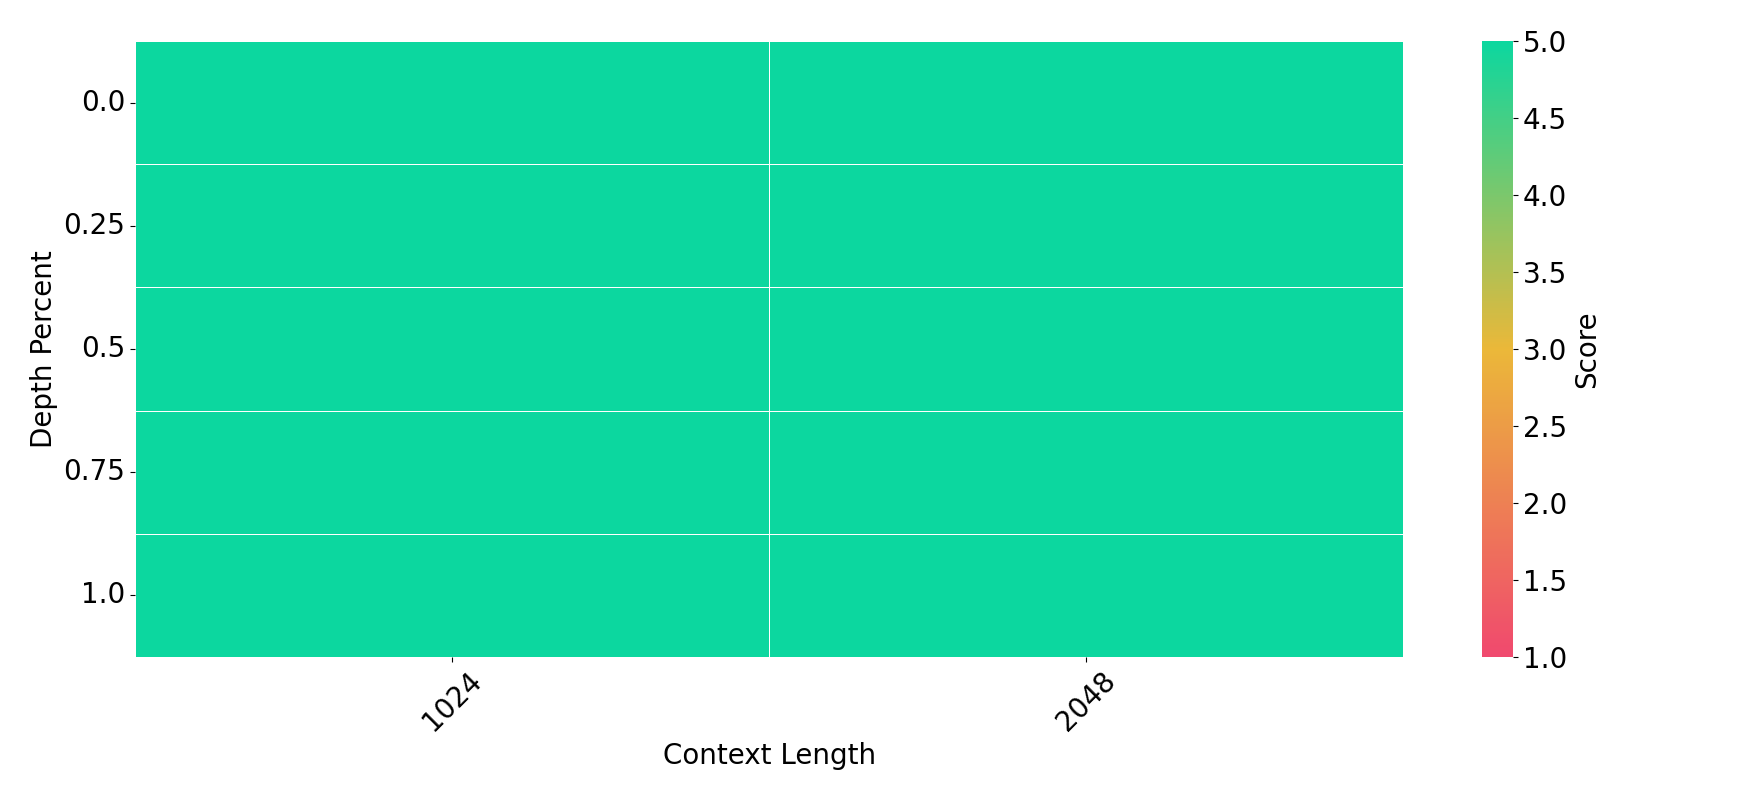
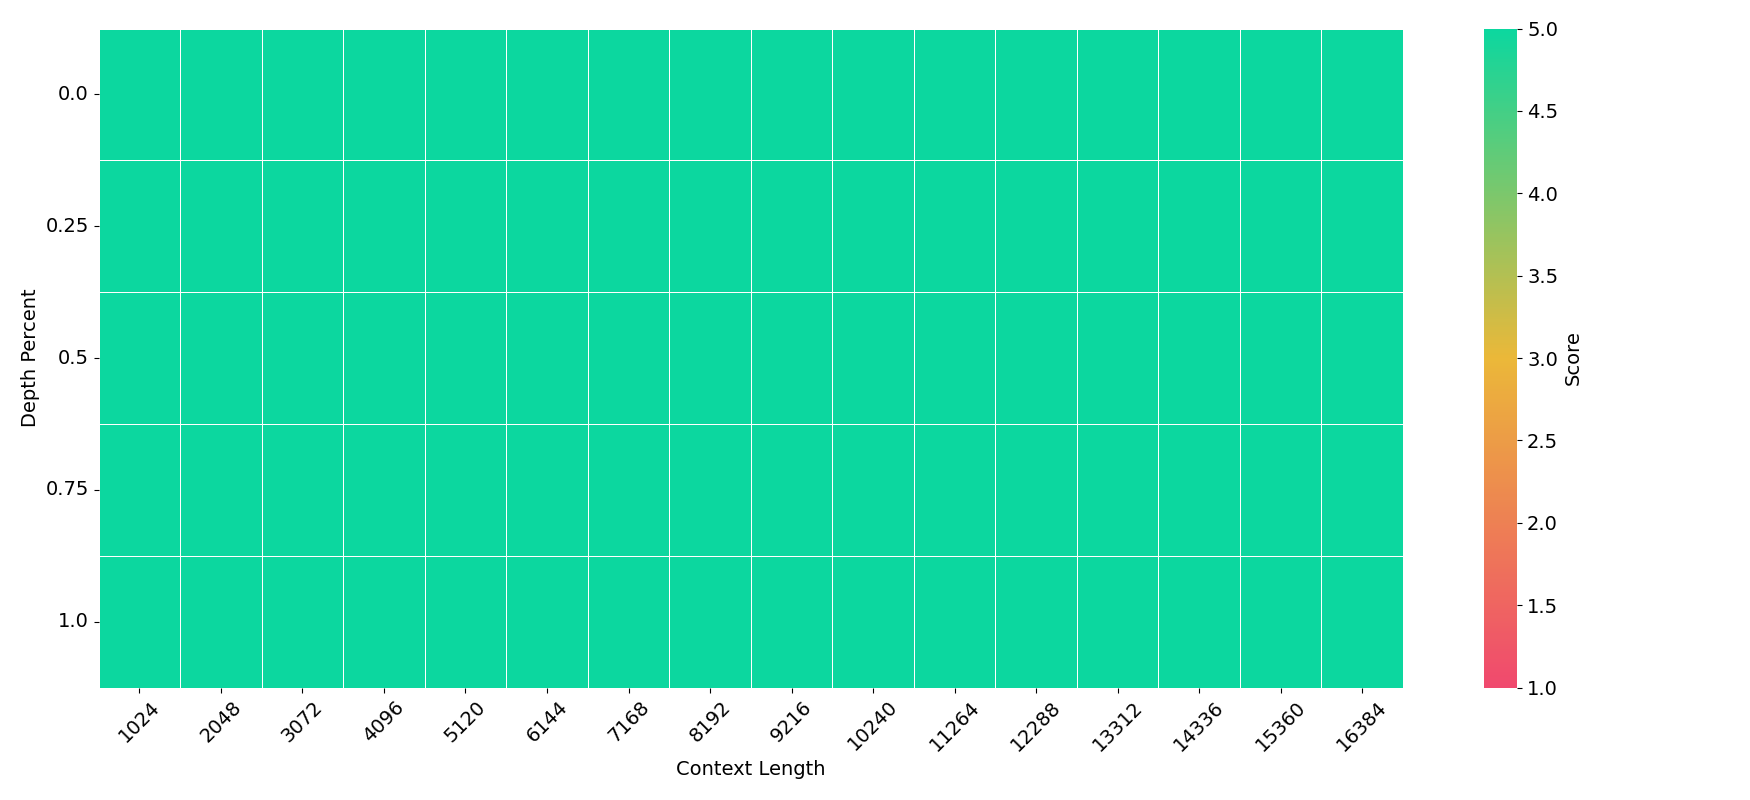
Fix instruction prompt

diff --git a/src/hari/evaluate.py b/src/hari/evaluate.py
@@ -22,28 +22,10 @@ class Result:
 def parse_args():
     parser = ArgumentParser()
     parser.add_argument(
-        "--context_length_max",
-        type=int,
-        default=2048,
-        help="Maximum context length for the haystack",
-    )
-    parser.add_argument(
-        "--context_length_min",
-        type=int,
-        default=1024,
-        help="Minimum context length for the haystack",
-    )
-    parser.add_argument(
-        "--interval",
-        type=int,
-        default=256,
-        help="Interval for the context length",
-    )
-    parser.add_argument(
-        "--depth",
+        "--depth_steps",
         type=int,
         default=5,
-        help="Depth for the haystack",
+        help="Number of depth steps when inserting the needle into the document",
     )
     parser.add_argument(
         "--needle",
@@ -69,11 +51,6 @@ def parse_args():
         help="Model to use for the retrieval",
     )
     parser.add_argument(
-        "--model_type",
-        type=str,
-        default="gpt4o",
-    )
-    parser.add_argument(
         "--judger_model",
         type=str,
         default="gpt-4o-2024-11-20",
@@ -86,6 +63,24 @@ def parse_args():
         default="result",
         help="Output directory for the results",
     )
+    parser.add_argument(
+        "--min_context_length",
+        type=int,
+        default=1024,
+        help="Minimum context length for the haystack",
+    )
+    parser.add_argument(
+        "--max_context_length",
+        type=int,
+        default=16384,
+        help="Maximum context length for the haystack",
+    )
+    parser.add_argument(
+        "--interval",
+        type=int,
+        default=1024,
+        help="Interval for the context length",
+    )
     return parser.parse_args()
 
 
@@ -97,20 +92,26 @@ if __name__ == "__main__":
     ds = load_dataset("wikimedia/wikipedia", "20231101.ja", split="train").shuffle(
         seed=42
     )
+    lengths = list(
+        range(
+            args.min_context_length,
+            args.max_context_length + 1,
+            args.interval,
+        )
+    )
     # Prepare haystacks across lengths and positions
     all_haystacks = prepare_haystacks_across_lengths_and_positions(
-        ds, args.needle, lengths=[1024, 2048], depth=args.depth
+        ds, args.needle, lengths=lengths, depth_steps=args.depth_steps
     )
     model = None
-    if args.model_type == "vLLM":
-        from hari.model.vLLM import VLLM
-
-        model = VLLM(args.model)
-    elif args.model_type == "gpt4o":
+    if args.model.startswith("gpt-4o"):
         from hari.model.gpt4o import GPT4o
 
         model = GPT4o(args.model)
+    else:
+        from hari.model.vLLM import VLLM
 
+        model = VLLM(args.model)
     judger = Judger(args.judger_model)
 
     # Generate 2D accuracy matrix

diff --git a/src/hari/model/gpt4o.py b/src/hari/model/gpt4o.py
@@ -18,12 +18,20 @@ class GPT4o(Model):
             messages=[
                 {
                     "role": "system",
-                    "content": "You are a helpful AI bot that answers questions for a user. Keep your response short and direct",
+                    "content": "You are a helpful AI assistant that can retrieve information from a document.",
                 },
-                {"role": "user", "content": f"Below is a document: {haystack}"},
                 {
                     "role": "user",
-                    "content": f"{retrieval_question} Don't give information outside the document or repeat your findings",
+                    "content": f"""You will be given a long document of text. Within the document, there is a single sentence that is needed to answer the question at the end.
+            Read the entire document carefully, then answer the question as accurately as possible. Please do not include any additional information or context outside of the passage.
+
+            Document:
+            { haystack }
+
+            Question:
+            { retrieval_question }
+
+            Answer:""",
                 },
             ],
             max_tokens=256,

diff --git a/src/hari/model/vLLM.py b/src/hari/model/vLLM.py
@@ -5,11 +5,20 @@ from vllm import LLM, SamplingParams
 class VLLM(Model):
     def __init__(self, model_name="google/gemma-3-1b-it"):
         self.model_name = model_name
-        self.llm = LLM(model=model_name)
+        self.llm = LLM(model=model_name, tensor_parallel_size=4)
 
     def retrieve_needle(self, haystack: str, retrieval_question: str) -> str:
         prompts = [
-            f"Below is a document: {haystack}\n{retrieval_question} Don't give information outside the document or repeat your findings"
+            f"""You will be given a long document of text. Within the document, there is a single sentence that is needed to answer the question at the end.
+            Read the entire document carefully, then answer the question as accurately as possible. Please do not include any additional information or context outside of the passage.
+
+            Document:
+            { haystack }
+
+            Question:
+            { retrieval_question }
+
+            Answer:""",
         ]
         sampling_params = SamplingParams(temperature=0.0, max_tokens=256)
 

diff --git a/src/hari/prepare_dataset.py b/src/hari/prepare_dataset.py
@@ -63,19 +63,21 @@ def prepare_various_haystack(
 
 
 def prepare_haystacks_across_lengths_and_positions(
-    ds, needle: str, lengths: list = [1024, 2048, 4096, 8192, 16384], depth: int = 5
+    ds,
+    needle: str,
+    lengths: list = [1024, 2048, 4096, 8192, 16384],
+    depth_steps: int = 5,
 ) -> list:
     """
     Create haystacks of various lengths with needle inserted at various relative positions.
     """
-    relative_positions = np.linspace(0, 1, depth)  # y-axis
+    relative_positions = np.linspace(0, 1, depth_steps)  # y-axis
     all_haystacks = []
 
     for length in lengths:
         haystack = build_haystack(ds, length)
         for rel_pos in relative_positions:
             abs_pos = int(length * rel_pos)
-
             new_haystack, insert_at = insert_needle_into_haystack(
                 haystack, needle, length, abs_pos
             )
